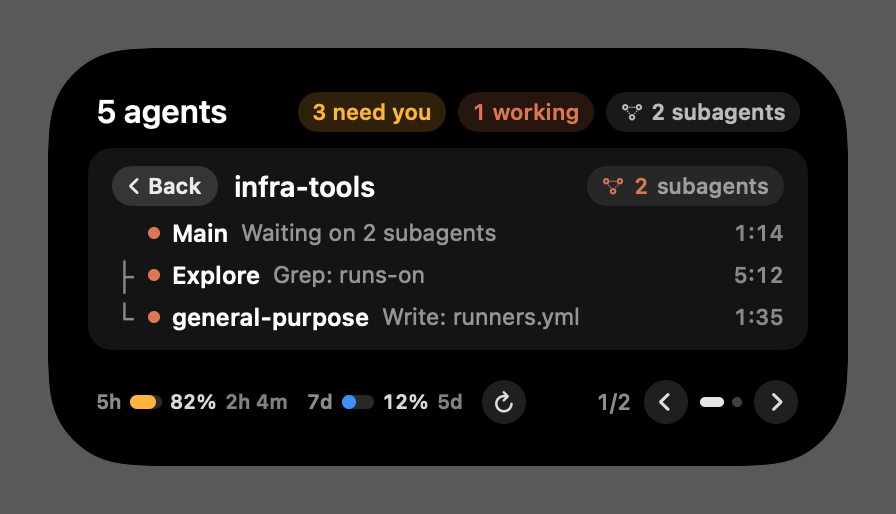
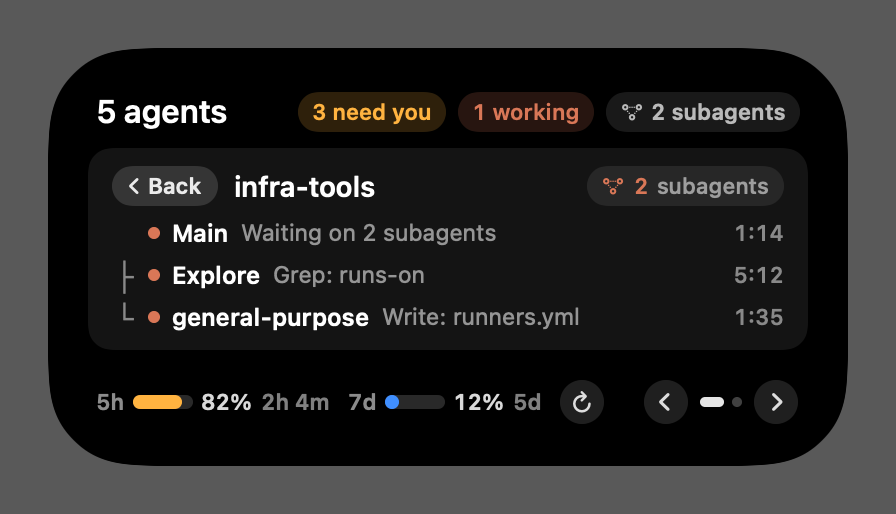
Island pager: back to sliding dots, always shown
Drop the current/total label and the dots: flag. The wide capsule marks the
current page in every footer fallback; the tightest ones drop reset times and
then the '+N need you' hint before the dots. Past 8 pages the dots are a
window that follows the current page. VoiceOver still reads 'Page X of Y'.

Changed region(s): [[0.0938, 0.716, 0.7188, 0.8405]]

diff --git a/Shared/IslandViews.swift b/Shared/IslandViews.swift
@@ -858,15 +858,16 @@ struct Footer: View {
             row(bar: 28, size: 11, icon: true)
             row(bar: 30, size: 11, icon: false)
             row(bar: 22, size: 10.5, icon: false)
-            row(bar: 16, size: 10, icon: false, dots: state.offPageNeed == 0)
-            // Tightest: a page label, a "+N need you" hint and 24pt targets leave no room for reset times.
-            row(bar: 16, size: 10, icon: false, dots: false, resets: false)
+            row(bar: 16, size: 10, icon: false)
+            // Tightest: the dots always win. Reset times go first, then the "+N need you" hint.
+            row(bar: 16, size: 10, icon: false, resets: false)
+            row(bar: 16, size: 10, icon: false, resets: false, hint: false)
         }
         .padding(.horizontal, 4)
     }
 
     private func row(
-        bar: CGFloat, size: CGFloat, icon: Bool, words: Bool = false, dots: Bool = true, resets: Bool = true
+        bar: CGFloat, size: CGFloat, icon: Bool, words: Bool = false, resets: Bool = true, hint: Bool = true
     )
         -> some View
     {
@@ -874,7 +875,7 @@ struct Footer: View {
             limits(bar: bar, size: size, icon: icon, words: words, resets: resets)
             refresh
             Spacer(minLength: 0)
-            pager(dots: dots)
+            pager(hint: hint)
         }
     }
 
@@ -896,8 +897,8 @@ struct Footer: View {
         .accessibilityLabel("Refresh plan limits")
     }
 
-    @ViewBuilder private func pager(dots: Bool) -> some View {
-        if state.pages > 1 { Pager(state: state, dots: dots).fixedSize() }
+    @ViewBuilder private func pager(hint: Bool) -> some View {
+        if state.pages > 1 { Pager(state: state, hint: hint).fixedSize() }
     }
 
     @ViewBuilder private func limits(bar: CGFloat, size: CGFloat, icon: Bool, words: Bool, resets: Bool) -> some View {
@@ -995,21 +996,21 @@ extension Island {
 /// (wrapping around); the app also turns pages by itself while nobody is tapping.
 struct Pager: View {
     let state: NotchActivityState
-    /// False in the tightest footer: the dots give way to the label and the "+N need you" hint.
-    var dots = true
+    /// False in the tightest footer, where the dots take the room the "+N need you" hint would use.
+    var hint = true
+    /// At most this many dots are drawn; past it they are a window that follows the current page.
+    private static let maxDots = 8
     @Environment(\.islandScale) private var k
     var body: some View {
         HStack(spacing: 5) {
-            if state.offPageNeed > 0 {
+            if hint, state.offPageNeed > 0 {
                 Text("+\(state.offPageNeed) need you").sfont(size: 11, weight: .semibold).foregroundStyle(Island.amber)
                     .lineLimit(1).fixedSize().padding(.trailing, 3)
             }
-            Text("\(state.page + 1)/\(state.pages)").sfont(size: 11, weight: .medium).monospacedDigit()
-                .foregroundStyle(Island.secondary).lineLimit(1).fixedSize()
             Button(intent: PageIntent(forward: false)) { arrow("chevron.left") }
                 .accessibilityLabel("Previous page")
             HStack(spacing: 4) {
-                ForEach(0..<(dots ? min(state.pages, 8) : 0), id: \.self) { i in
+                ForEach(dotWindow, id: \.self) { i in
                     Capsule().fill(Color.white.opacity(i == state.page ? 0.9 : 0.25))
                         .frame(width: (i == state.page ? 12 : 5) * k, height: 5 * k)
                 }
@@ -1022,6 +1023,13 @@ struct Pager: View {
         }
         .buttonStyle(.plain)
         .fixedSize()
+    }
+
+    /// The pages that get a dot: all of them up to the cap, else a window of the cap that keeps the current page in view.
+    private var dotWindow: Range<Int> {
+        let n = min(state.pages, Self.maxDots)
+        let start = max(0, min(state.page - n / 2, state.pages - n))
+        return start..<(start + n)
     }
 
     private func arrow(_ symbol: String) -> some View {
